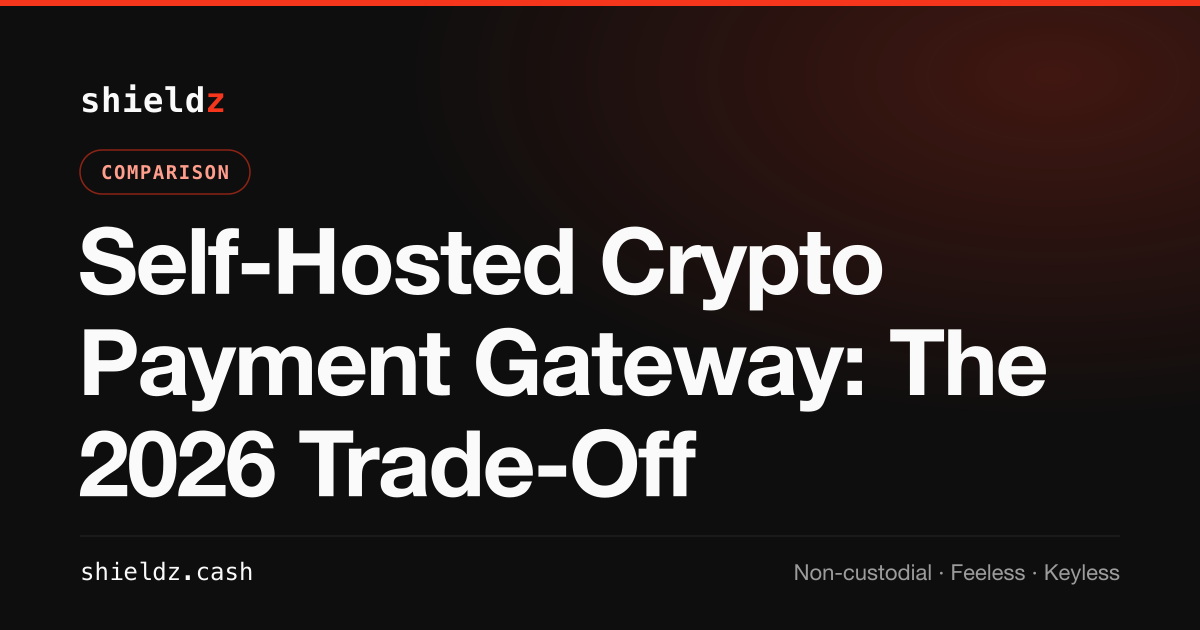
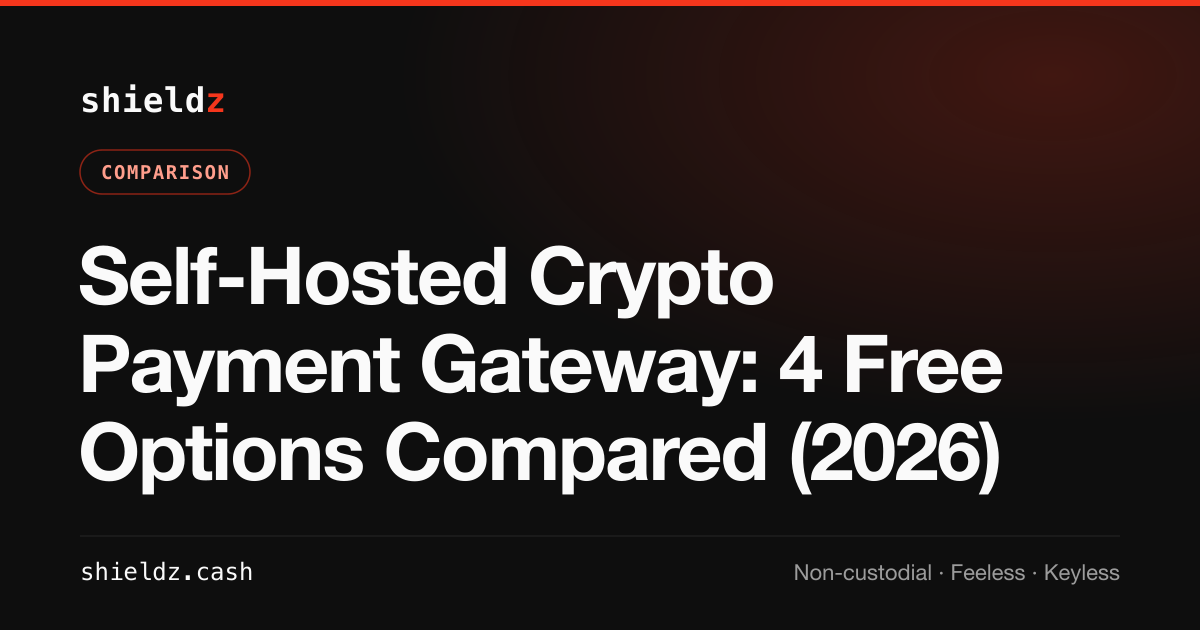
Upgrade self-hosted page (top GSC impressions): add 4-option comparison table from dataset, no-server middle ground, freshness note, 2 FAQ+schema; retitle to comparison intent

Changed region(s): [[0.0617, 0.3619, 0.8942, 0.8143]]

diff --git a/src/content/blog/self-hosted-crypto-payment-gateway.md b/src/content/blog/self-hosted-crypto-payment-gateway.md
@@ -1,6 +1,6 @@
 ---
-title: "Self-Hosted Crypto Payment Gateway: The 2026 Trade-Off"
-description: "Why people want a self-hosted crypto payment gateway, what BTCPay costs to run, and how to get the same $0-fee non-custodial result with no server."
+title: "Self-Hosted Crypto Payment Gateway: 4 Free Options Compared (2026)"
+description: "The 4 self-hosted crypto payment gateways compared: BTCPay, Bitcart, PayRam, DV.net. All $0-fee and non-custodial. Plus a no-server alternative."
 pubDate: 2026-07-23
 author: "Deniz Yanbollu"
 tags: ["self-hosted", "crypto payment gateway", "btcpay", "non-custodial", "comparison"]
@@ -12,6 +12,8 @@ When people search for a self-hosted crypto payment gateway, they are almost nev
 
 This guide is honest about the trade-off. [BTCPay Server](https://btcpayserver.org) is the reference self-hosted option and it genuinely delivers those three things. But it asks you to run and maintain infrastructure. [Shieldz](https://shieldz.cash) delivers the same $0-fee, non-custodial outcome as a hosted service, so you skip the server without giving up custody. Both are valid. The right pick depends on how much you want to operate yourself.
 
+**Updated August 2026:** added a side-by-side of the four self-hosted options and a note on open-source, no-server alternatives, from our open [dataset of 86 crypto payment gateways](/blog/custody-gap-crypto-payment-gateways).
+
 ## Why "self-hosted" is really a proxy for three wants
 
 Break the search intent down and the server is the least important part:
@@ -21,6 +23,23 @@ Break the search intent down and the server is the least important part:
 - **Control.** You want the checkout to be yours, not a rented widget that can change terms.
 
 Self-hosting gets you all three, but so does a [non-custodial](/blog/non-custodial-crypto-payment-gateway) hosted gateway. The distinction that actually matters is custody, not where the software runs. A hosted app that never touches your funds gives you the custody guarantee without the ops burden.
+
+## The self-hosted options, compared
+
+Only **4 of the 86 crypto payment gateways** in [our open dataset](/blog/custody-gap-crypto-payment-gateways) are genuinely self-hosted software you run yourself. All four are open-source, non-custodial, and charge a **$0 platform fee**; they differ mostly in coin coverage and how much you have to operate.
+
+| Gateway | Fee | Coins | Lightning | Since | Known for |
+|---|---|---|---|---|---|
+| [BTCPay Server](https://btcpayserver.org) | $0 | BTC + altcoins via plugins | Yes | 2017 | The reference: largest community, most integrations |
+| [Bitcart](https://bitcart.ai) | $0 | 50+ (incl. Monero) | Yes | 2019 | BTCPay alternative, wider coin coverage out of the box |
+| [PayRam](https://www.payram.com) | $0 | ~20 | No | 2023 | Self-hosted, popular with iGaming; orchestration add-ons |
+| [DV.net](https://dv.net) | $0 | ~50 | No | 2023 | Open-source, the merchant owns the wallets and seed |
+
+**How to read it.** BTCPay is the safe default: the biggest ecosystem, the most plugins and documentation, and Lightning built in, at the cost of being Bitcoin-first (altcoins need plugins). Bitcart is the pick if you want more coins, including Monero, without plugin wrangling. PayRam and DV.net are newer and multi-coin, aimed at merchants who want a self-hosted stack without BTCPay's full-node footprint. All four keep custody with you and charge nothing but network fees.
+
+## The middle ground: open-source, but no server
+
+Not every "run it yourself" option is a full server. Some are open-source plugins or protocols that keep funds non-custodial without a VPS: [GoUrl](https://gourl.io) and MyCryptoCheckout are WordPress plugins that pay direct to your wallet, and [Solana Pay](/blog/50-crypto-payment-gateways-compared) is an open protocol for direct merchant payments. They are lighter than a self-hosted node but still put the software, and the responsibility, on you.
 
 ## What self-hosting actually costs you
 
@@ -65,6 +84,12 @@ It can be. Non-custodial means funds settle to your own wallet and the gateway n
 **Do either charge a platform fee?**
 Neither BTCPay nor Shieldz charges a platform fee. You pay only the blockchain network fee.
 
+**What are the alternatives to BTCPay Server?**
+The main self-hosted alternatives are Bitcart (open-source, 50+ coins including Monero, Lightning), PayRam and DV.net (both newer, multi-coin, self-hosted). Lighter open-source options that need no server include the GoUrl and MyCryptoCheckout WordPress plugins.
+
+**Which self-hosted crypto payment gateway supports the most coins?**
+Among the self-hosted options, Bitcart and DV.net support roughly 50 coins each, more than BTCPay's Bitcoin-first default (which adds altcoins via plugins). All are $0-fee and non-custodial.
+
 ## Get paid without the server
 
 You do not have to run infrastructure to keep custody of your money. Create a non-custodial checkout in seconds with the [payment link generator](https://shieldz.cash/tools/payment-link), read [how to accept crypto payments](/blog/how-to-accept-crypto-payments) for the full setup, or compare the field in the [best free crypto payment gateways](/blog/best-free-crypto-payment-gateways-2026) guide.
@@ -78,7 +103,9 @@ You do not have to run infrastructure to keep custody of your money. Create a no
     { "@type": "Question", "name": "What is the best self-hosted crypto payment gateway?", "acceptedAnswer": { "@type": "Answer", "text": "BTCPay Server is the leading self-hosted, open-source, non-custodial option. It is free software but you provide and maintain the infrastructure." } },
     { "@type": "Question", "name": "Do I need to run a full node?", "acceptedAnswer": { "@type": "Answer", "text": "With BTCPay, typically yes for the best experience. With a hosted non-custodial gateway like Shieldz, no. You only need a wallet address." } },
     { "@type": "Question", "name": "Is a hosted gateway still non-custodial?", "acceptedAnswer": { "@type": "Answer", "text": "It can be. Non-custodial means funds settle to your own wallet and the gateway never holds them. That is a property of the design, not of where the software runs." } },
-    { "@type": "Question", "name": "Do either charge a platform fee?", "acceptedAnswer": { "@type": "Answer", "text": "Neither BTCPay nor Shieldz charges a platform fee. You pay only the blockchain network fee." } }
+    { "@type": "Question", "name": "Do either charge a platform fee?", "acceptedAnswer": { "@type": "Answer", "text": "Neither BTCPay nor Shieldz charges a platform fee. You pay only the blockchain network fee." } },
+    { "@type": "Question", "name": "What are the alternatives to BTCPay Server?", "acceptedAnswer": { "@type": "Answer", "text": "The main self-hosted alternatives are Bitcart (open-source, 50+ coins incl. Monero, Lightning), PayRam and DV.net (newer, multi-coin, self-hosted). Lighter no-server options include the GoUrl and MyCryptoCheckout WordPress plugins." } },
+    { "@type": "Question", "name": "Which self-hosted crypto payment gateway supports the most coins?", "acceptedAnswer": { "@type": "Answer", "text": "Among self-hosted options, Bitcart and DV.net support roughly 50 coins each, more than BTCPay's Bitcoin-first default. All are $0-fee and non-custodial." } }
   ]
 }
 </script>
